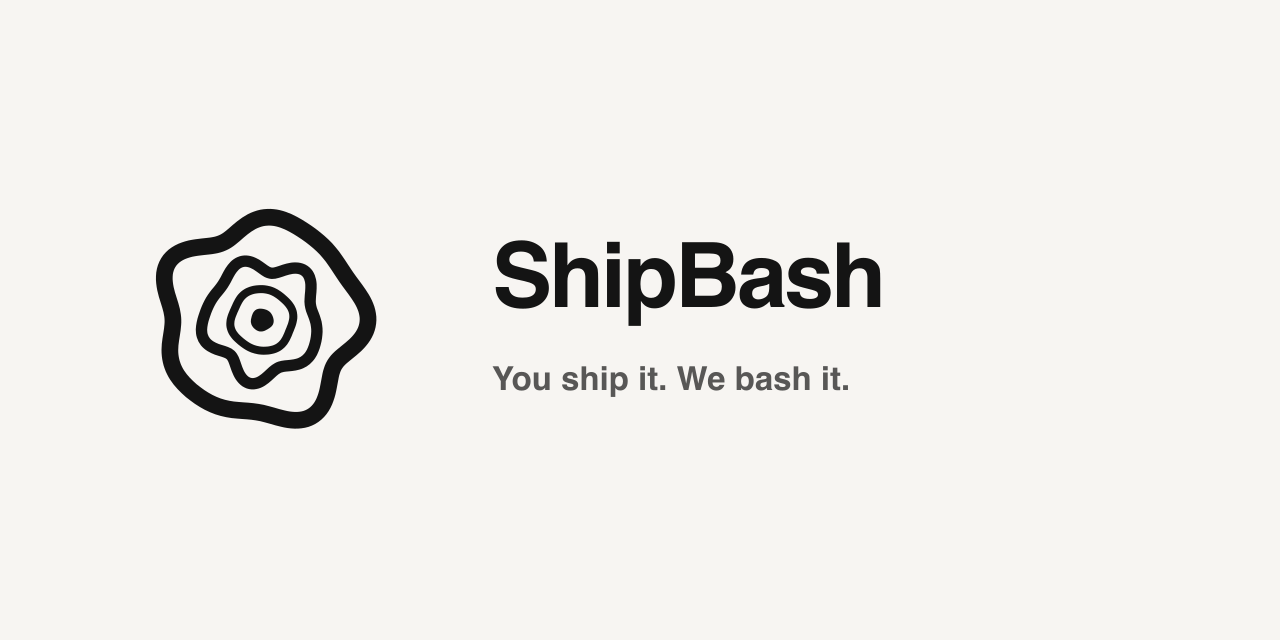
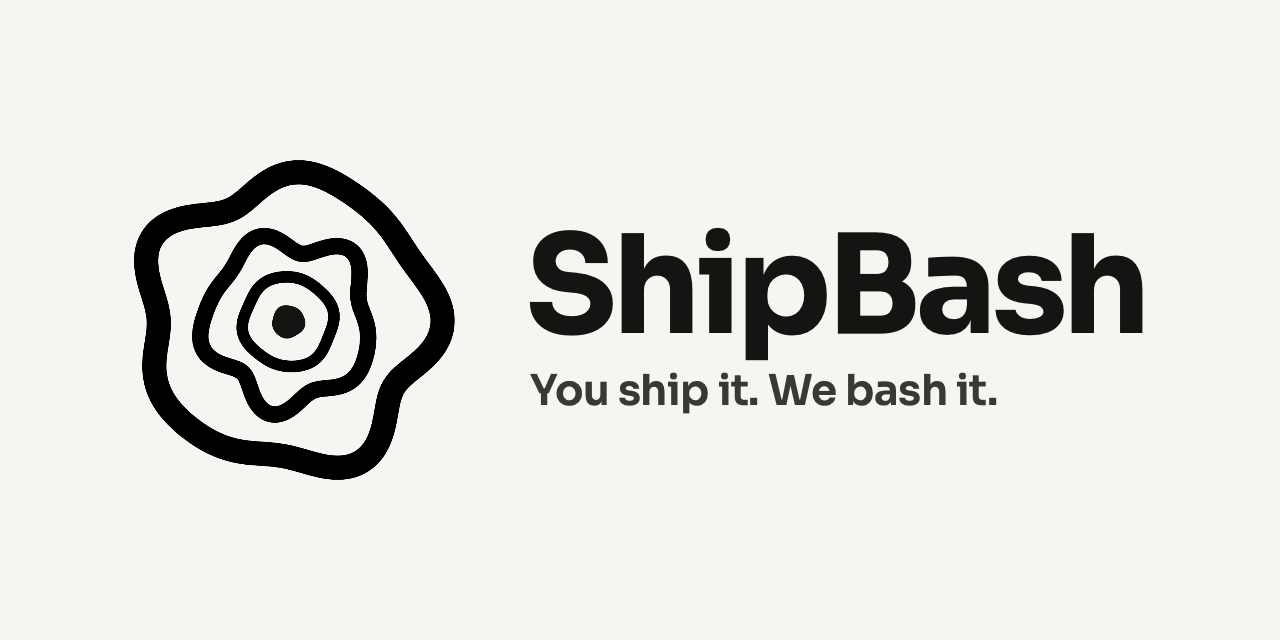
chore(brand): use the designed repository social preview (#3)
The generator drew the 1280x640 preview with a font librsvg could not load,
so the tagline fell back to a system font. The preview is now finished artwork
kept in brand/source and copied as-is to the exports and public directories.

Changed region(s): [[0.0938, 0.25, 0.9062, 0.75]]

diff --git a/scripts/generate-shipbash-assets.ts b/scripts/generate-shipbash-assets.ts
@@ -156,7 +156,6 @@ const [
   favicon32,
   favicon48,
   githubBadgePreview,
-  socialPreview,
   openGraph,
   launchCover,
 ] = await Promise.all([
@@ -173,10 +172,11 @@ const [
   png(faviconSvg, 32),
   png(faviconSvg, 48),
   png(githubBadgePreviewSvg(), 400),
-  png(socialSvg(1280, 640, PAPER, INK), 1280, 640),
   png(socialSvg(1200, 630, PAPER, INK), 1200, 630),
   png(socialSvg(1600, 900, BLACK, WHITE), 1600, 900),
 ]);
+
+const socialPreview = await readFile(join(SOURCE_DIRECTORY, "shipbash-social-preview-1280x640.png"));
 
 const faviconIco = ico([
   { size: 16, data: favicon16 },

diff --git a/brand/README.md b/brand/README.md
@@ -1,7 +1,9 @@
 # ShipBash brand assets
 
 This directory is the canonical, reviewable home for ShipBash brand files.
-Every export is generated from `source/shipbash-eye.svg` by:
+Every export is generated from `source/shipbash-eye.svg`, except the repository
+social preview, which is finished artwork kept as
+`source/shipbash-social-preview-1280x640.png` and copied as-is, by:
 
 ```bash
 bun run brand:assets
